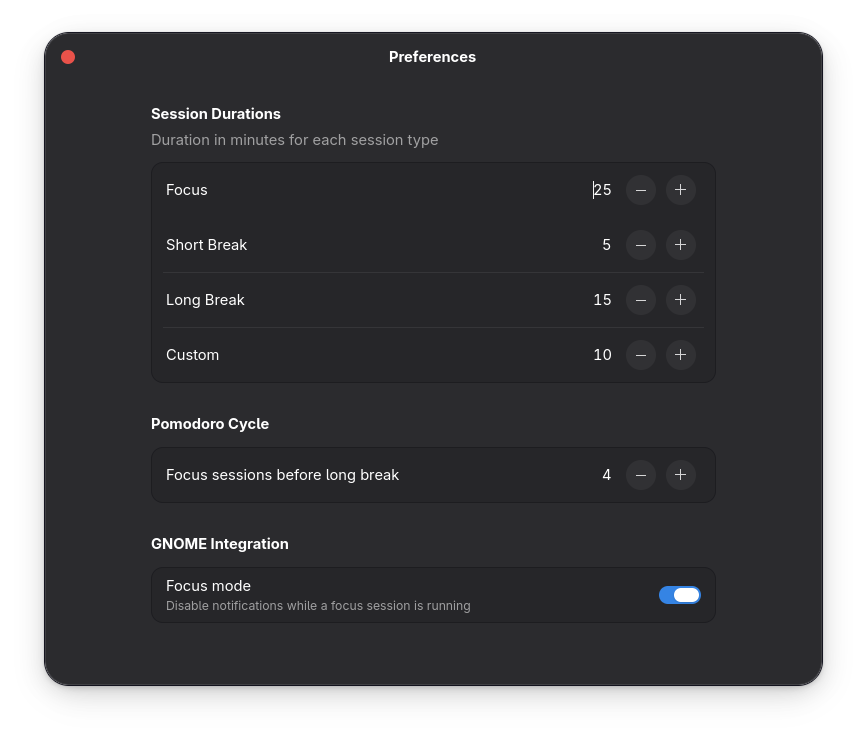
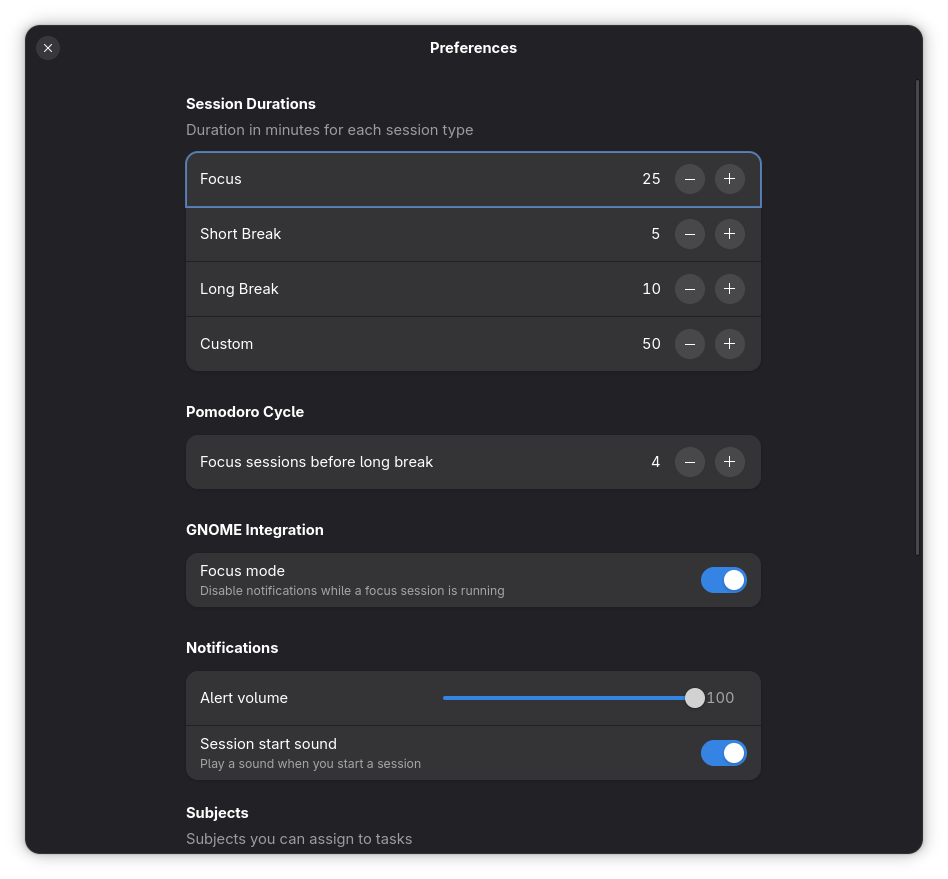
docs: refresh screenshots and rework the readme intro
New shots for tasks, stats and preferences, plus a subjects panel.
Punchier feature list covering subjects, multi-range history and sound.

diff --git a/README.md b/README.md
@@ -4,15 +4,15 @@
 
 # Tempus
 
-**A focused Pomodoro timer for GNOME**
+**A Pomodoro timer for GNOME that stays out of your way.**
 
-Built with GTK4 and libadwaita. Stays out of your way while you work.
+Focus in clean 25 minute blocks, tag what you're working on, and see exactly where your hours go. Native GTK4 and libadwaita, no clutter, no settings you'll never touch.
 
 [![License: GPL v3](https://img.shields.io/badge/License-GPLv3-blue.svg)](LICENSE)
 [![GNOME](https://img.shields.io/badge/GNOME-GTK4%20%2B%20Adwaita-4A86CF)](https://www.gnome.org/)
 
-<img src="docs/screenshot-tasks.png" alt="Focus session with todo list" width="300"/>
-<img src="docs/screenshot-stats.png" alt="Today's focus stats" width="300"/>
+<img src="docs/screenshot-tasks.png" alt="Focus session with todo list" width="380"/>
+<img src="docs/screenshot-stats.png" alt="Focus time broken down by subject" width="380"/>
 
 </div>
 
@@ -20,22 +20,23 @@ Built with GTK4 and libadwaita. Stays out of your way while you work.
 
 ## Features
 
-- **Four session types** — Focus, Short Break, Long Break, and Custom, each with its own configurable duration
-- **Circular progress ring** — colour-coded by session type so you can tell at a glance where you are
-- **Auto-cycle** — after each focus session Tempus suggests the right break and advances automatically
-- **Session dots** — shows how many focus sessions you have completed in the current cycle
-- **Todo list** — add tasks inline or load them from a Markdown file; export back to Markdown when done
-- **Subjects** — assign a subject to any task, each with its own colour shown as a dot next to the task; add subjects on the fly or manage them and their colours in Preferences
-- **Pomodoro counter per task** — each task tracks how many focus sessions have been spent on it
-- **Focus history** — switch between Today, Week, Month and Semester views; Today breaks down by task, longer ranges show time per subject in matching colours so you can see exactly where your hours go
-- **Semester view** — defaults to the last six months; set a custom start and end date in Preferences if your semester has fixed boundaries
-- **Preferences** — change every duration and the cycle length live, no restart needed
-- **Focus mode** — optionally silence GNOME notifications while a session is running
-- **Sound alerts** — a sound plays when a session starts and when it ends (start sound can be turned off in Preferences)
-- **Desktop notifications** — notified the moment a session ends, even if the window is minimised
+- **Four session types.** Focus, Short Break, Long Break and Custom, each with a duration you can change on the fly.
+- **A ring that shows where you are.** The progress ring is colour-coded per session type, with dots underneath counting the focus sessions in your current cycle.
+- **Auto-cycle.** Finish a focus block and Tempus lines up the right break and advances on its own.
+- **Todo list that sticks around.** Add tasks inline or import them from Markdown, export them back when you're done. Standard GFM checkboxes, nothing proprietary.
+- **Subjects.** Tag any task with a subject like Thesis, Coursework or Reading, each with its own colour shown as a dot beside the task. Add them on the fly or manage them in Preferences.
+- **Per-task pomodoro count.** Every task keeps a running tally of the focus sessions you've poured into it.
+- **History that actually adds up.** Flip between Today, Week, Month and Semester. Today breaks down by task, longer ranges group your time by subject in matching colours so you can see exactly where the hours went.
+- **Semester view.** Defaults to the last six months, or pin a fixed start and end date if your term has real boundaries.
+- **Focus mode.** Silences GNOME notifications while a session runs and restores them the moment you stop.
+- **Live countdown in the window title.** Glance at the taskbar and read `12:34 · Focus` without switching back to the app.
+- **Sound alerts with volume control.** A chime when a session starts and ends. Mute the start sound if it gets on your nerves.
+- **Desktop notifications.** Pinged the moment a session ends, even with the window minimised.
+- **No restart, ever.** Change any duration or the cycle length in Preferences and it applies live.
 
 <div align="center">
-<img src="docs/screenshot-preferences.png" alt="Preferences panel" width="280"/>
+<img src="docs/screenshot-preferences.png" alt="Preferences" width="360"/>
+<img src="docs/screenshot-subjects.png" alt="Subjects with custom colours" width="360"/>
 </div>
 
 ---
